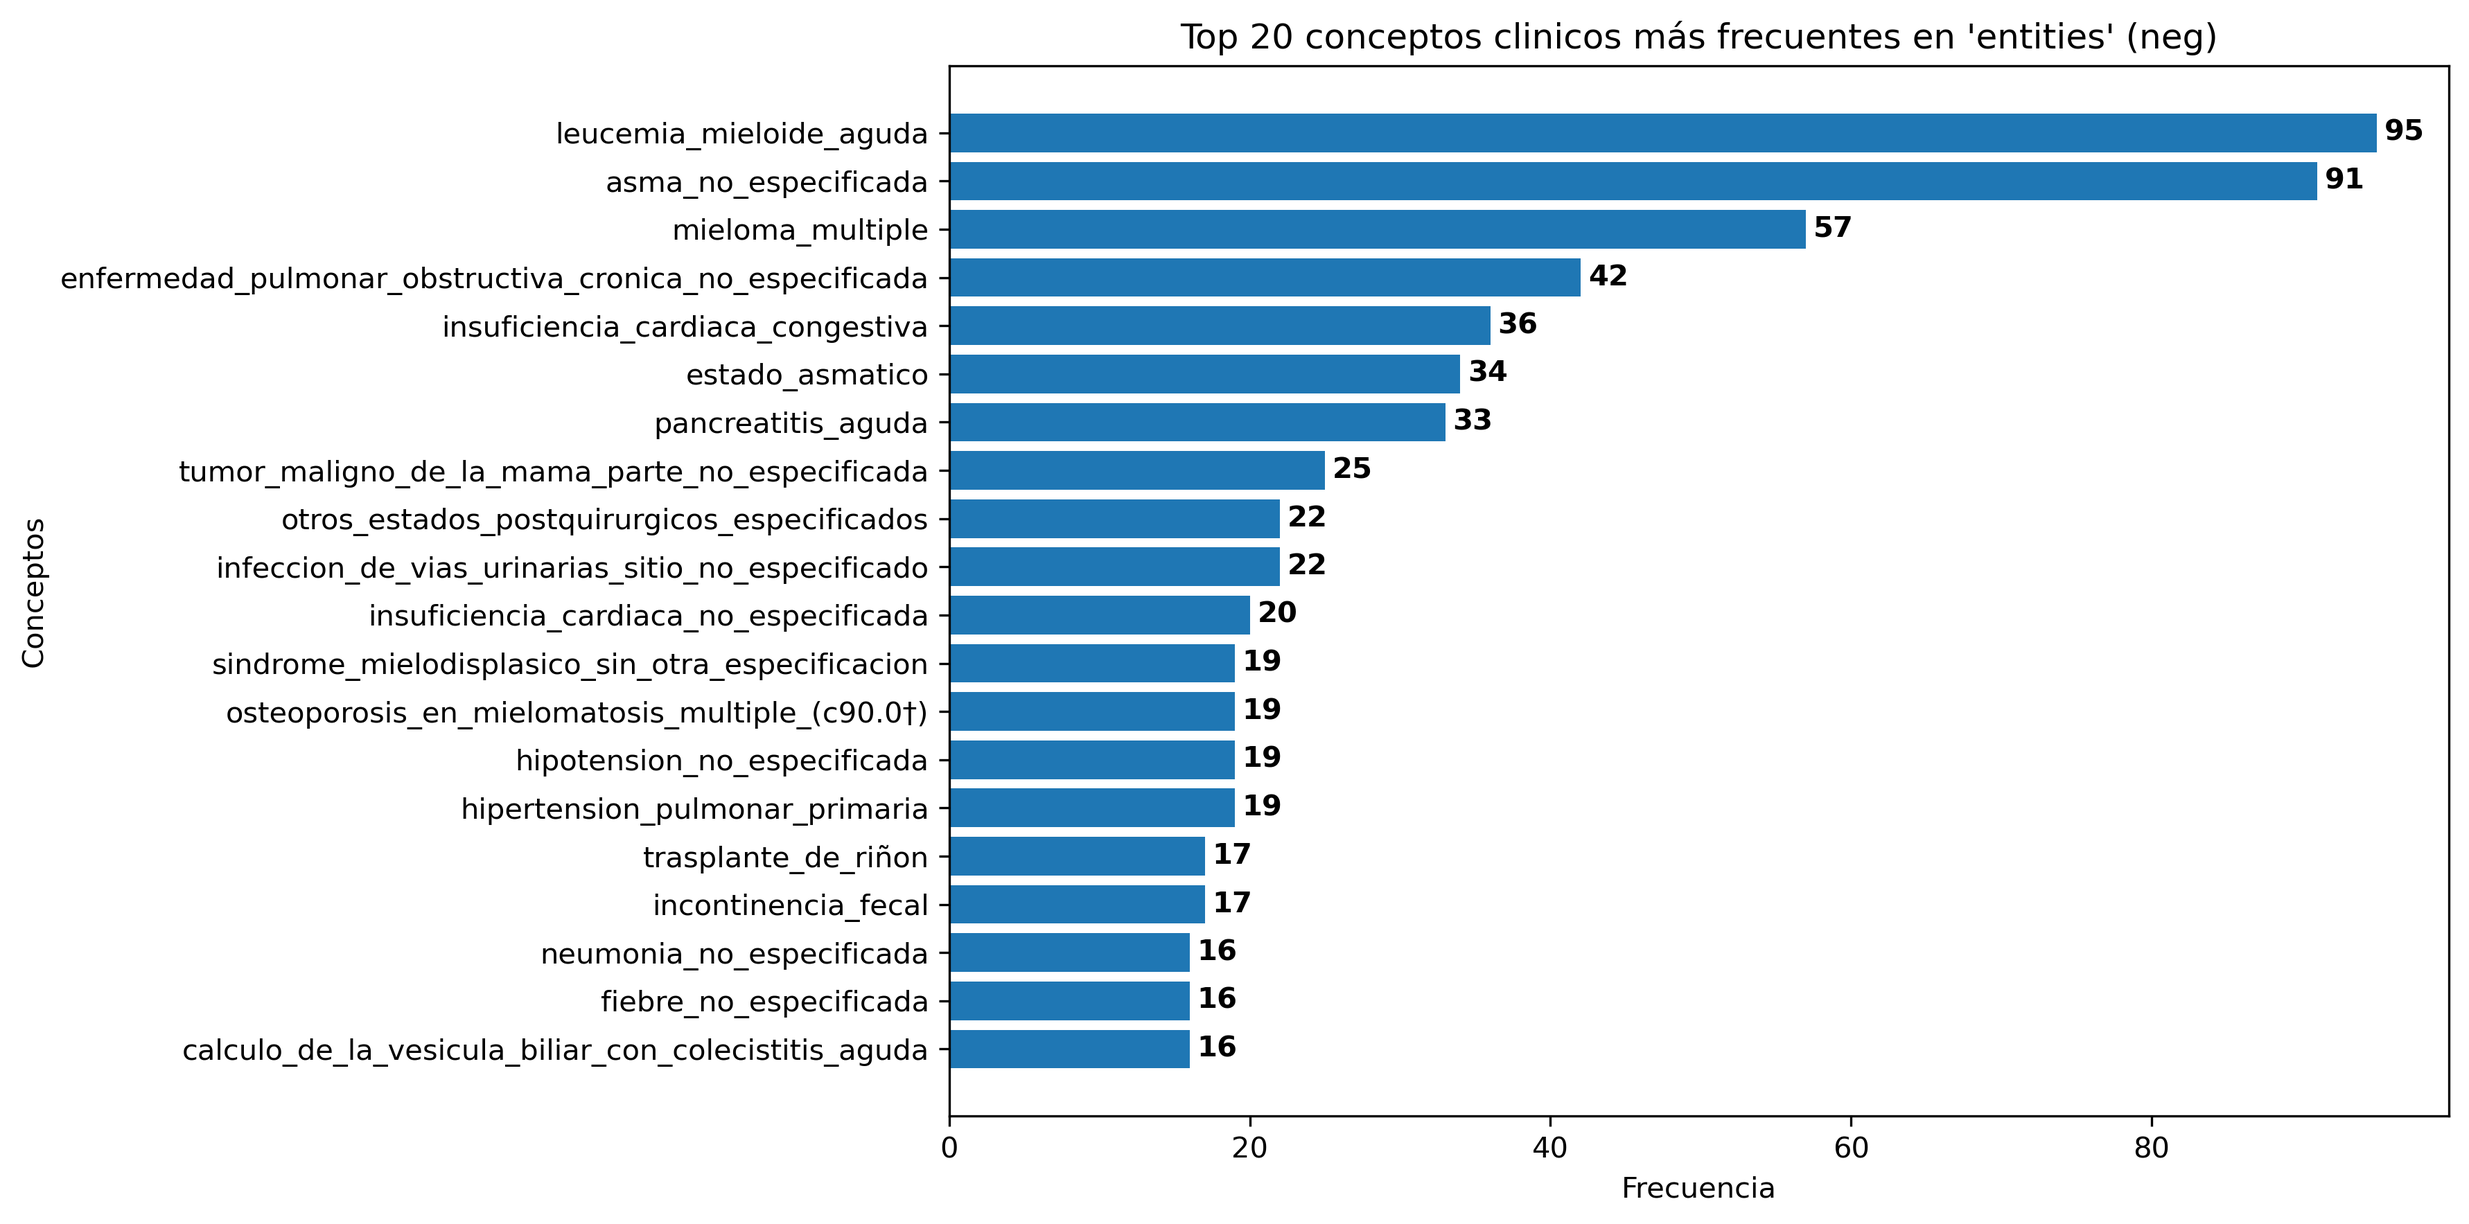
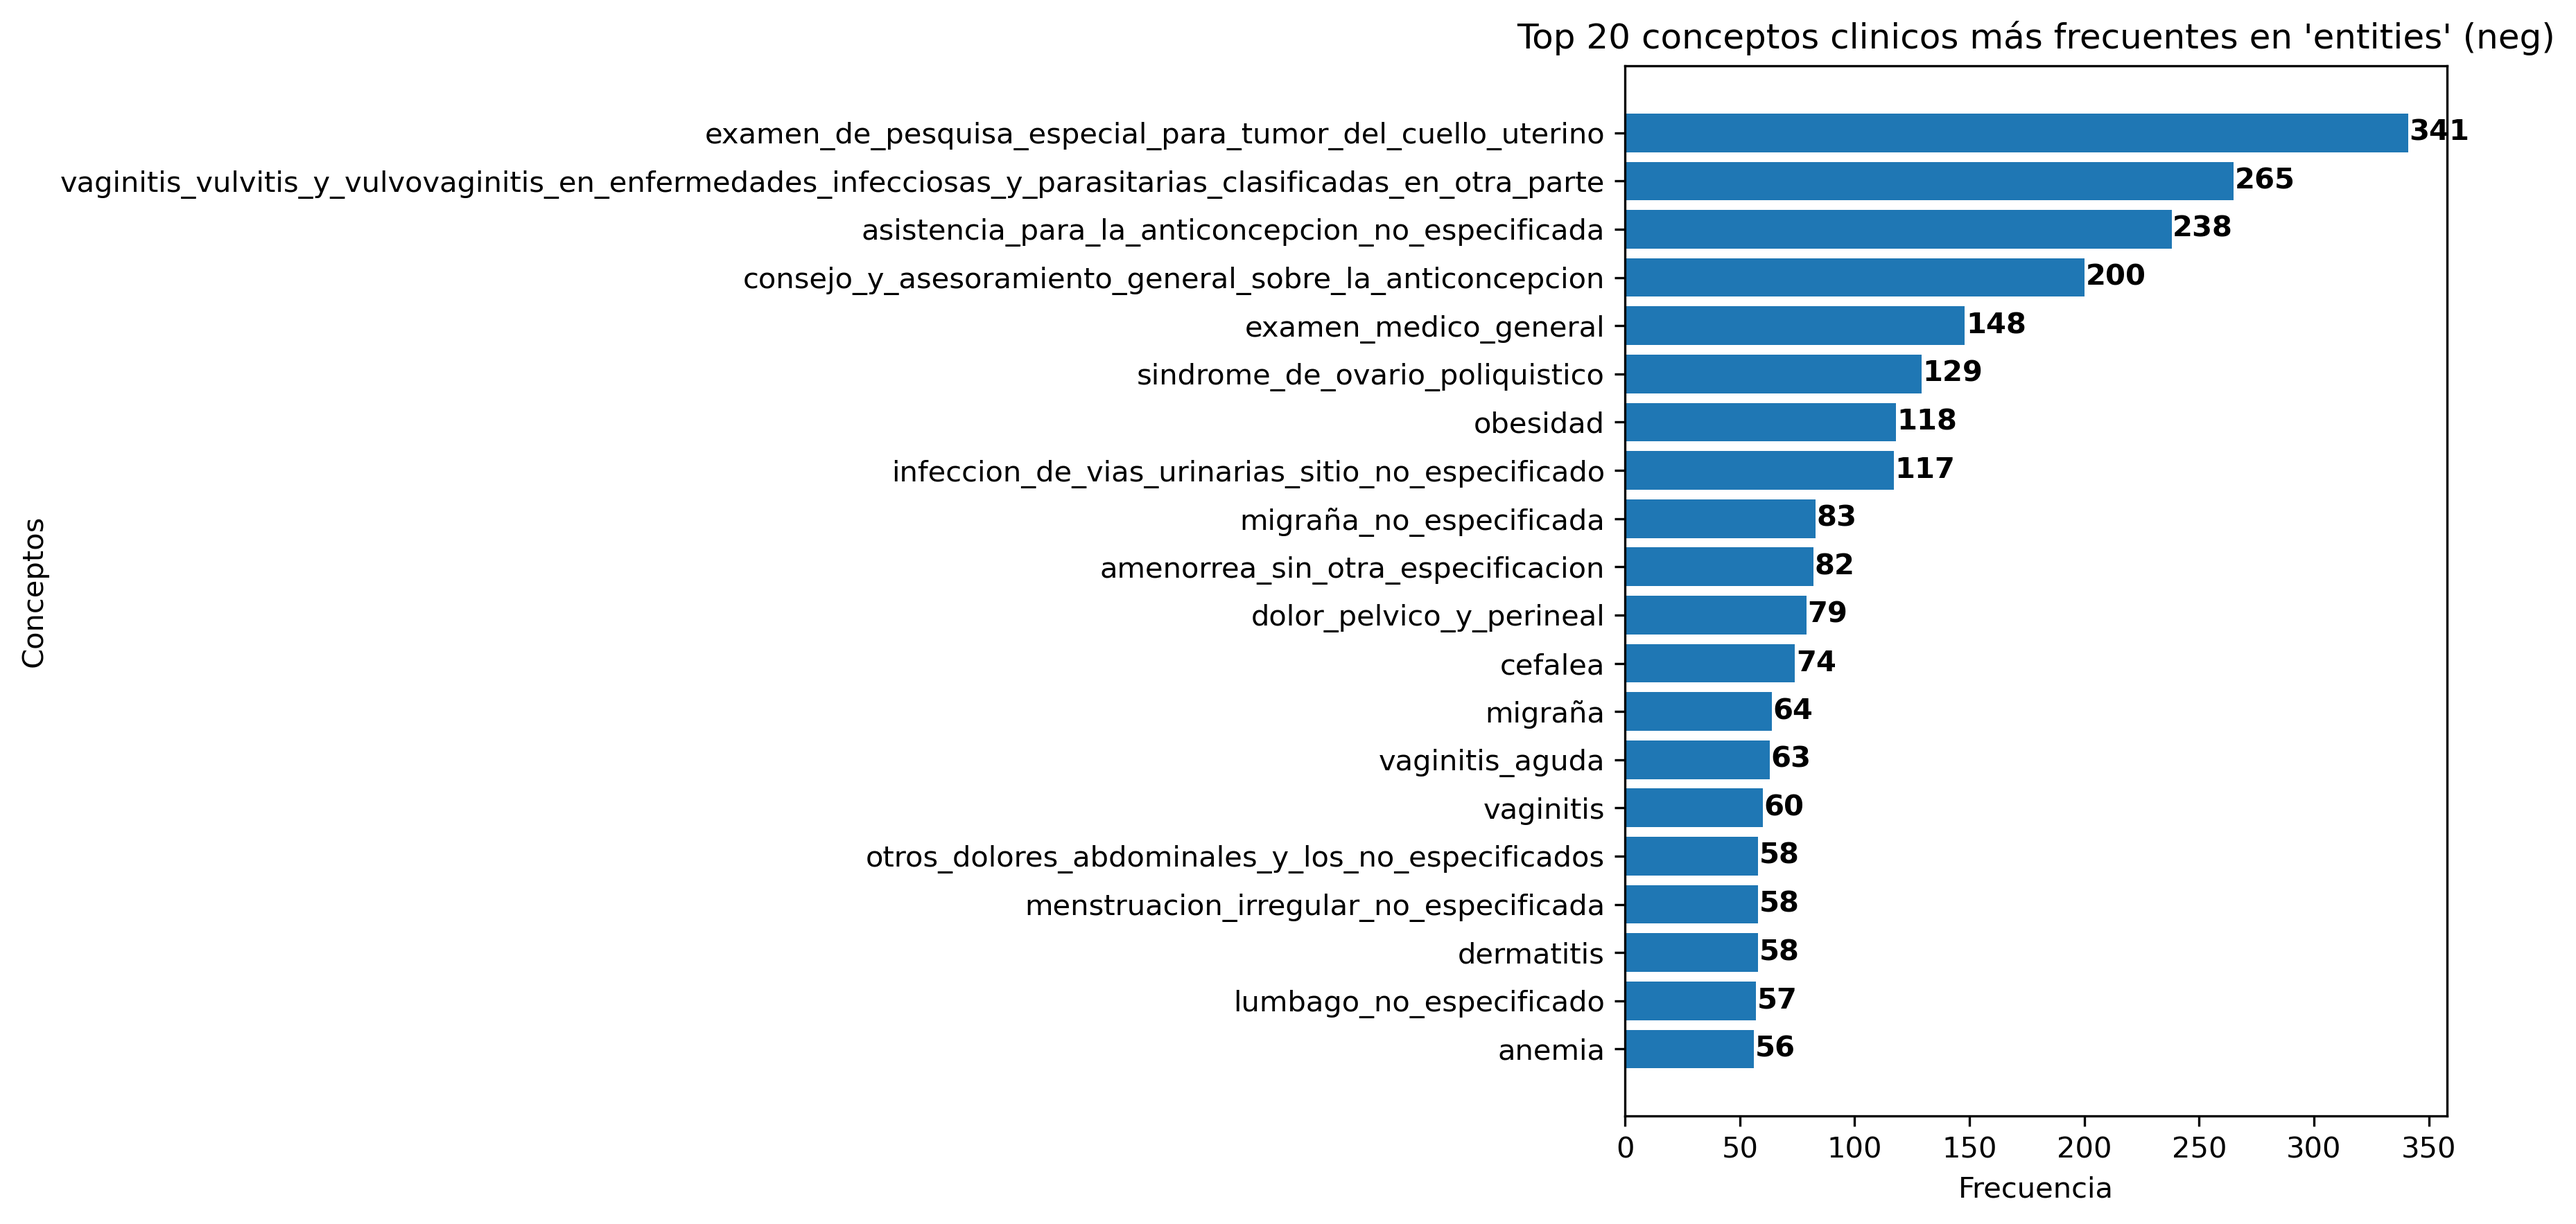
ajustando los errores del compu_Pipe_V3

diff --git a/tab_c.py b/tab_c.py
@@ -51,7 +51,7 @@ def dividir_pos_neg_df(df, label_col="label"):
     print(f"Positivos apnea: {pos_apnea.shape}")
     return neg_apnea, pos_apnea
 
-def imprimir_top_words(df, column="entities", top_n=20, exclude_words=None, save_fig=False, fig_name="top_words.png", tipo=""):
+def imprimir_top_words(df, column="entities", top_n=20, exclude_words=None, save_fig=False, fig_name="top_words.png", tipo="", model_version=""):
     """
     Imprime las top N palabras más frecuentes en una columna de texto de un DataFrame y guarda la gráfica si se indica.
 
@@ -77,12 +77,12 @@ def imprimir_top_words(df, column="entities", top_n=20, exclude_words=None, save
 
     plt.figure(figsize=(12, 6))
     bars = plt.barh(words, counts)
-    titulo = f"Top {top_n} conceptos clinicos más frecuentes en '{column}'"
+    titulo = f"Top {top_n} clinical concepts clinicos in '{column}'"
     if tipo:
         titulo += f" ({tipo})"
-    plt.title(titulo)
-    plt.xlabel("Frecuencia")
-    plt.ylabel("Conceptos")
+    plt.title(titulo + f" - {model_version}")
+    plt.xlabel("Frecuency")
+    plt.ylabel("Concepts")
     plt.tight_layout()
 
     # Agregar los valores al final de cada barra
@@ -102,28 +102,30 @@ def imprimir_top_words(df, column="entities", top_n=20, exclude_words=None, save
 
 
 def main():
-    # Load the dataset
+    # Load the 
+    
+    model_version = "lstm_v234"
     current_dir = os.getcwd()
     #print("Current directory:", current_dir)
     #data = utils_general_porpose.load_json(current_dir, "/concepts/clinical_concepts_20250404_171428.json")
-    data = utils_general_porpose.load_json(current_dir, "/concepts/clinical_concepts_20250520_053753.json")
+    data = utils_general_porpose.load_json(current_dir, "/concepts/clinical_concepts_20250701_043601.json")
     df = pd.DataFrame(data)
     print(df.info())
 
     neg, pos = dividir_pos_neg_df(df, label_col="label")
     tipo = "pos"
-    imprimir_top_words(pos, column="entities", top_n=20, exclude_words={"enfermedad", "paciente"}, save_fig=True, fig_name="top_concepts_"+tipo+".png", tipo="pos")
+    imprimir_top_words(pos, column="entities", top_n=20, exclude_words={"enfermedad", "paciente"}, save_fig=True, fig_name="top_concepts_"+tipo+"_"+model_version+".png", tipo="pos")
     tipo = "neg"
-    imprimir_top_words(neg, column="entities", top_n=20, exclude_words={"enfermedad", "paciente"}, save_fig=True, fig_name="top_concepts_"+tipo+".png", tipo="neg")
+    imprimir_top_words(neg, column="entities", top_n=20, exclude_words={"enfermedad", "paciente"}, save_fig=True, fig_name="top_concepts_"+tipo+"_"+model_version+".png", tipo="neg")
 
-    incon = utils_general_porpose.load_json(current_dir, "/concepts/inconsistencies_20250520_053753.json")
+    incon = utils_general_porpose.load_json(current_dir, "/concepts/inconsistencies_20250701_043601.json")
     incon = pd.DataFrame(incon)
     print(incon.info())
 
-    utils_reports.graficar_frecuencias_columna(incon, columna="label", save_fig=True, output_dir="g_consistency", fig_name="frecuencias_pacientes_inconsistencia.png", titulo="numero de pacientes con diagnostico Apnea antes de la polisomnografia")
-    utils_reports.graficar_frecuencias_columna(df, columna="label", save_fig=True, output_dir="g_consistency", fig_name="frecuencias_pacientes_sin_inconsistencias.png", titulo="numero de pacientes con diagnostico Apnea antes de la polisomnografia sin inconsistencias")
+    #utils_reports.graficar_frecuencias_columna(incon, columna="label", save_fig=True, output_dir="g_consistency", fig_name="frecuencias_pacientes_inconsistencia_"+model_version+".png", titulo="Number of patients diagnosed with sleep apnea before polysomnography_"+model_version)
+    utils_reports.graficar_frecuencias_columna(df, columna="label", save_fig=True, output_dir="g_consistency", fig_name="frecuencias_pacientes_sin_inconsistencias_"+model_version+".png", titulo="Number of patients diagnosed with HIV without inconsistencies_"+model_version)
 
-    imprimir_top_words(incon, column="entities", top_n=20, exclude_words={"enfermedad", "paciente"}, save_fig=True, fig_name="top_concepts_inconsistencias.png", tipo="inconsistencias")
+    #imprimir_top_words(incon, column="entities", top_n=20, exclude_words={"enfermedad", "paciente"}, save_fig=True, fig_name="top_concepts_inconsistencies_"+model_version+".png", tipo="inconsistencies", model_version=model_version)
 
 if __name__ == "__main__":
     main()

diff --git a/utils_split_dataset.py b/utils_split_dataset.py
@@ -122,7 +122,7 @@ def balanced_subsample(patient_in):
     id_pos = []
     id_neg = []
 
-    pos_patient_selected = []
+    neg_patient_selected = []
 
     #xs_pos = []
     #xs_neg = []    
@@ -147,7 +147,8 @@ def balanced_subsample(patient_in):
         else:
             #x_neg.append(patient.get("seq"))
             #y_neg.append(patient.get("label"))
-            id_neg.append(patient.get("id_cliente"))
+            #id_neg.append(patient.get("id_cliente"))
+            id_neg.append(patient)
         
         #x.append(patient.get("seq"))
         #y.append(patient.get("label"))
@@ -166,7 +167,7 @@ def balanced_subsample(patient_in):
     min_ci = min(count_y[1])
     print("min_class: {}".format(min_ci))
 
-    random_index = random.sample(range(0, len(id_pos)), min_ci)
+    random_index = random.sample(range(0, len(id_neg)), min_ci)
     #print("len radom_index {}".format(len(random_index)))
 
     #class_xs_selected = None
@@ -176,20 +177,22 @@ def balanced_subsample(patient_in):
         id_selected = [id_pos[i] for i in random_index]"""
     
     for i in random_index:
-        pos_patient_selected.append(id_pos[i])
+        neg_patient_selected.append(id_neg[i])
 
-    print("ten random index to select positive patients: {}".format(random_index[:10]))
+    print("ten random index to select neg patients: {}".format(random_index[:10]))
     #pos_patient_selected = [patient for patient in patient_in if patient.get("id_cliente") == id_pos_selected]
     
-    print("len positive patients: {}".format(len(pos_patient_selected)))
+    print("len neg patients: {}".format(len(neg_patient_selected)))
     
     #xs_pos_selected.append((y_selected, x_selected))
 
-    neg_patient_selected = [patient for patient in patient_in if patient.get("label") == 0]
-    print("len negative patients: {}".format(len(neg_patient_selected)))
+    pos_patient_selected = [patient for patient in patient_in if patient.get("label") == 1]
+    print("len pos patients: {}".format(len(pos_patient_selected)))
 
     #y, x = y_selected + y_neg, x_selected + x_neg
-    all_patientes = pos_patient_selected + neg_patient_selected
+    all_patientes = neg_patient_selected + pos_patient_selected
+    print("type all_patientes {}".format(type(all_patientes)))
+    #print("ten all patients: {}".format(all_patientes[0]))
     #two_classes.append((y, x))
 
     """list_index = list(range(len(y)))
@@ -210,6 +213,8 @@ def balanced_subsample(patient_in):
     
     for i in list_index:
         patient_selected = all_patientes[i]
+        print("patient_{}, selected {}".format(i, patient_selected))
+        #print("patient_selected {}".format(patient_selected))
         #dict_result = {"id_cliente": patient_selected.get("id_cliente"), "label": patient_selected.get("label"), "seq": patient_selected.get("seq")}
         dict_result = {"id_cliente": patient_selected.get("id_cliente"), "label": patient_selected.get("label"), "seq": patient_selected.get("entities")}
         balanced_patients.append(dict_result)

diff --git a/tab_dt.py b/tab_dt.py
@@ -96,7 +96,7 @@ def graficar_eventos_pacientes_df(df, n_pacientes=10, paciente_label_col="label_
     else:
         plt.show()
 
-def graficar_frecuencias_label(df, columna, save_fig=False, fig_name="frecuencias_label_apnea.png", model_version=""):
+def graficar_frecuencias_label(df, columna, save_fig=False, fig_name="frecuencias_label_HIV.png", model_version=""):
     """
     Cuenta los valores únicos de una columna y dibuja una gráfica de frecuencias, 
     agregando una leyenda solo con el valor total.
@@ -112,7 +112,7 @@ def graficar_frecuencias_label(df, columna, save_fig=False, fig_name="frecuencia
 
     plt.figure(figsize=(10, 5))
     ax = conteo.plot(kind='bar')
-    plt.title("Frequency of Patients with/without Apnea {}".format(model_version))
+    plt.title("Frequency of Patients with/without HIV {}".format(model_version))
     plt.xlabel(columna)
     plt.ylabel("Frequency")
     plt.tight_layout()
@@ -265,19 +265,19 @@ def distribucion_por_edad(df, column_to_split="label_apnea", column_to_plot="eda
 def main():
     # Cargar datos
 
-    file_path = "/home/pajaro/vih_phepipe/data_transformation/data_t_20250704_074236.csv"
+    file_path = "/home/pajaro/vih_phepipe/data_transformation/data_t_20250701_043601.csv"
     df = load_data(file_path)
     #df.info()
     df_explo = df[["fecha_diagnostico", "last_appointment", "prediction_window_start", "end_observation_window"]]
     print(df_explo.head())
 
-    model_version = "lstm_v80_2"
+    model_version = "lstm_v234"
 
     # Graficar eventos y guardar figura
     graficar_eventos_pacientes_df(df, n_pacientes=10, save_fig=True, fig_name="eventos_paciente_{}.png".format(model_version), model_version=model_version)
 
     # Graficar frecuencias con leyenda y guardar figura
-    graficar_frecuencias_label(df, "label", save_fig=True, fig_name="frecuencias_label_apnea_{}.png".format(model_version), model_version=model_version)
+    graficar_frecuencias_label(df, "label", save_fig=True, fig_name="frecuencias_label_HIV_{}.png".format(model_version), model_version=model_version)
 
     # Graficar distribución por sexo y guardar figura
     #distribucion_por_sexo(df, column_to_split="label", column_to_plot="Sexo", save_fig=True, fig_name="distribucion_por_sexo_{}.png".format(model_version), model_version=model_version)

diff --git a/tab_split.py b/tab_split.py
@@ -8,17 +8,18 @@ def main():
 # Load the dataset
     current_dir = os.getcwd()
     #print("Current directory:", current_dir)    
-    d_train = utils_general_porpose.load_json(current_dir, "/train/train_20250520_053753.json")
+    d_train = utils_general_porpose.load_json(current_dir, "/train/train_prueba_train.json")
     df_train = pd.DataFrame(d_train)
     print(df_train.info())
+    print(df_train["label"].value_counts())
 
-    utils_reports.graficar_frecuencias_columna(df_train, columna="label", save_fig=True, output_dir="g_split", fig_name="frecuencias_pacientes_train.png", titulo="numero de pacientes train")
+    #utils_reports.graficar_frecuencias_columna(df_train, columna="label", save_fig=True, output_dir="g_split", fig_name="frecuencias_pacientes_train.png", titulo="numero de pacientes train")
 
-    d_test = utils_general_porpose.load_json(current_dir, "/test/test_20250520_053753.json")
-    df_test = pd.DataFrame(d_test)
-    print(df_test.info())
+    #d_test = utils_general_porpose.load_json(current_dir, "/test/test_20250701_043601.json")
+    #df_test = pd.DataFrame(d_test)
+    #print(df_test.info())
 
-    utils_reports.graficar_frecuencias_columna(df_test, columna="label", save_fig=True, output_dir="g_split", fig_name="frecuencias_pacientes_test.png", titulo="numero de pacientes test")
+    #utils_reports.graficar_frecuencias_columna(df_test, columna="label", save_fig=True, output_dir="g_split", fig_name="frecuencias_pacientes_test.png", titulo="numero de pacientes test")
 
 if __name__ == "__main__":
     main()
